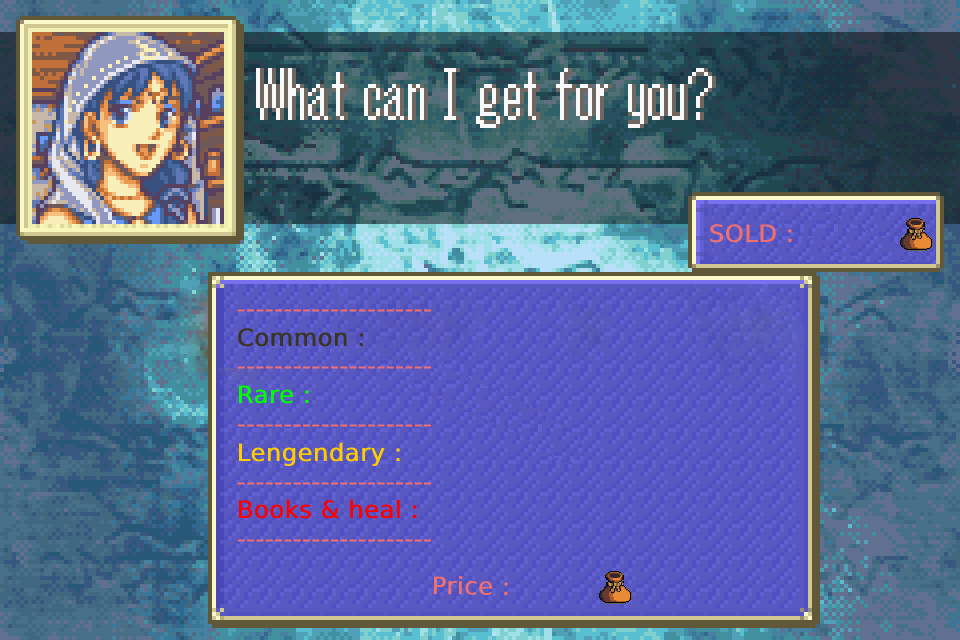
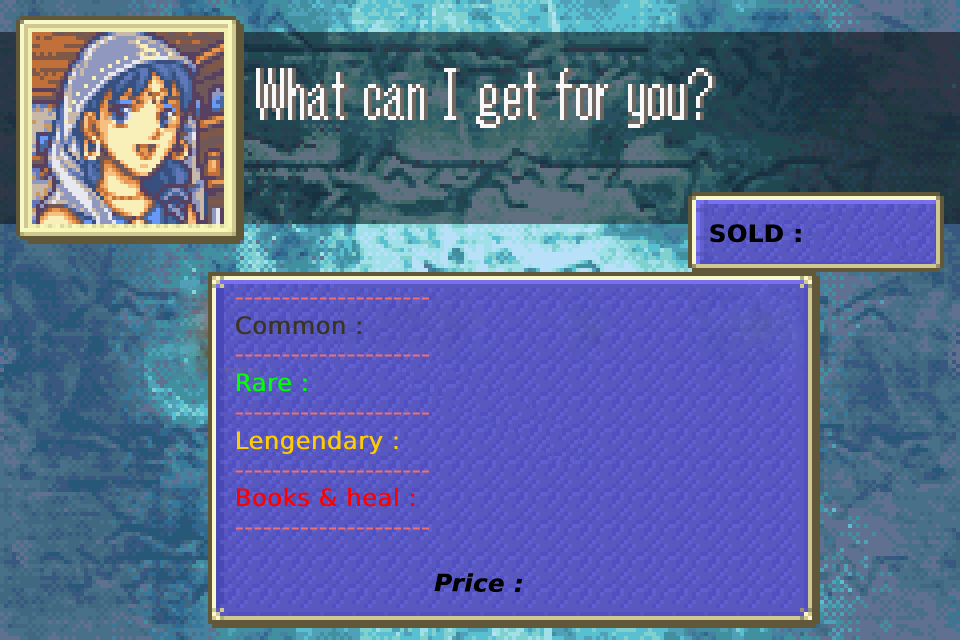
bug a patch demain

diff --git a/src/shop.c b/src/shop.c
@@ -82,6 +82,7 @@ void init_shop(Global_t *m)
 
     m->shop.shop = init_spritee(m, "assets/shop/shop.png", pose, size);
     m->shop.coin = init_spritee(m, "assets/shop/coin.png", pose, size);
+    m->shop.fond = init_spritee(m, "assets/shop/shop_fond.png", (sfVector2f){0, 0}, (sfVector2f){1, 1});
     size.x = size.y = 1.3;
     pose.x = 420;
     pose.y = 245;
@@ -173,14 +174,18 @@ static void move_coin(Global_t *m)
         sfSprite_setTextureRect(m->shop.coin, rect);
         sfClock_restart(clock);
     }
+    sfSprite_setPosition(m->shop.coin, (sfVector2f){620, 193});
+    sfSprite_setScale(m->shop.coin, (sfVector2f){1.6, 1.6});
+    sfRenderWindow_drawSprite(m->window, m->shop.coin, NULL);
+    sfSprite_setPosition(m->shop.coin, (sfVector2f){500, 370});
     sfRenderWindow_drawSprite(m->window, m->shop.coin, NULL);
 }
 
 void draw_shop(Global_t *m)
 {
     if (m->current == 9) {
-        sfRenderWindow_drawSprite(m->window ,m->shop.shop, NULL);
-        move_coin(m);
+        sfRenderWindow_drawSprite(m->window, m->shop.fond, NULL);
+        sfRenderWindow_drawSprite(m->window, m->shop.shop, NULL);
         sfRenderWindow_drawSprite(m->window, m->weapons[COMMON_SWORD].sprite, NULL);
         sfRenderWindow_drawSprite(m->window, m->weapons[COMMON_BOW].sprite, NULL);
         sfRenderWindow_drawSprite(m->window, m->weapons[COMMON_SPEAR].sprite, NULL);
@@ -197,6 +202,7 @@ void draw_shop(Global_t *m)
         sfRenderWindow_drawSprite(m->window, m->weapons[FIRE_BOOK].sprite, NULL);
         sfRenderWindow_drawSprite(m->window, m->weapons[FREEZE_BOOK].sprite, NULL);
         sfRenderWindow_drawSprite(m->window, m->weapons[POTION].sprite, NULL);
+        move_coin(m);
         sfRenderWindow_drawRectangleShape(m->window, m->shop.hooved, NULL);
         if (sfKeyboard_isKeyPressed(sfKeyLeft))
             move_hover_rect(m, sfKeyLeft);

diff --git a/src/main.c b/src/main.c
@@ -35,8 +35,7 @@ void rpg(Global_t *m, hub_t *h)
 
     m->show_mouse = true;
     m->mouse = sfMouse_getPositionRenderWindow(m->window);
-    if (m->current != 9)
-        sfRenderWindow_clear(m->window, sfBlack);
+    sfRenderWindow_clear(m->window, sfBlack);
     while (sfRenderWindow_pollEvent(m->window, &event))
         event_click(event, m);
     draw_menu(m);

diff --git a/src/include/worlds.h b/src/include/worlds.h
@@ -44,6 +44,8 @@ typedef struct Shop
     int hovered_index;
     sfSprite *coin;
     sfTexture *Coin;
+    sfSprite *fond;
+    sfTexture *Fond;
 }Shop_t;
 
 typedef struct Zone1
